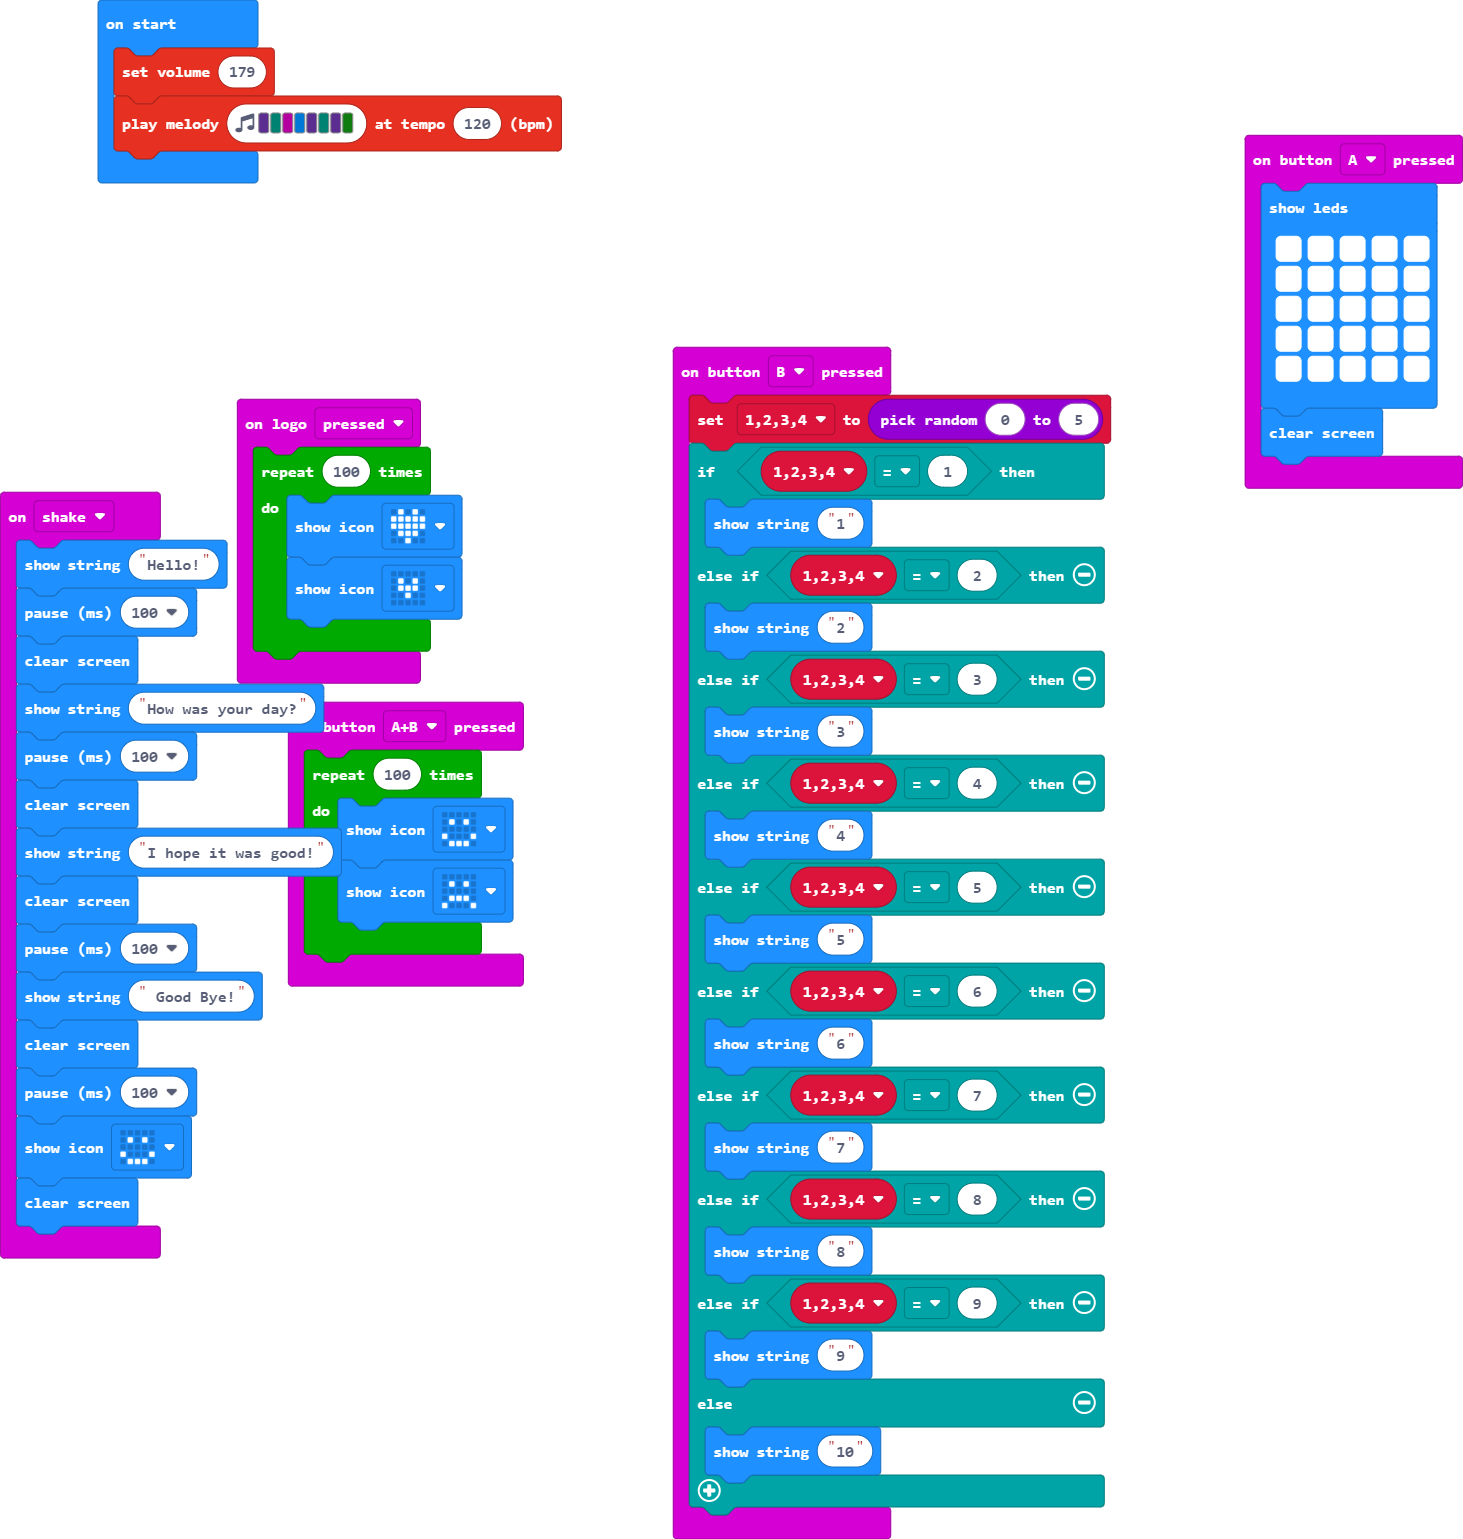
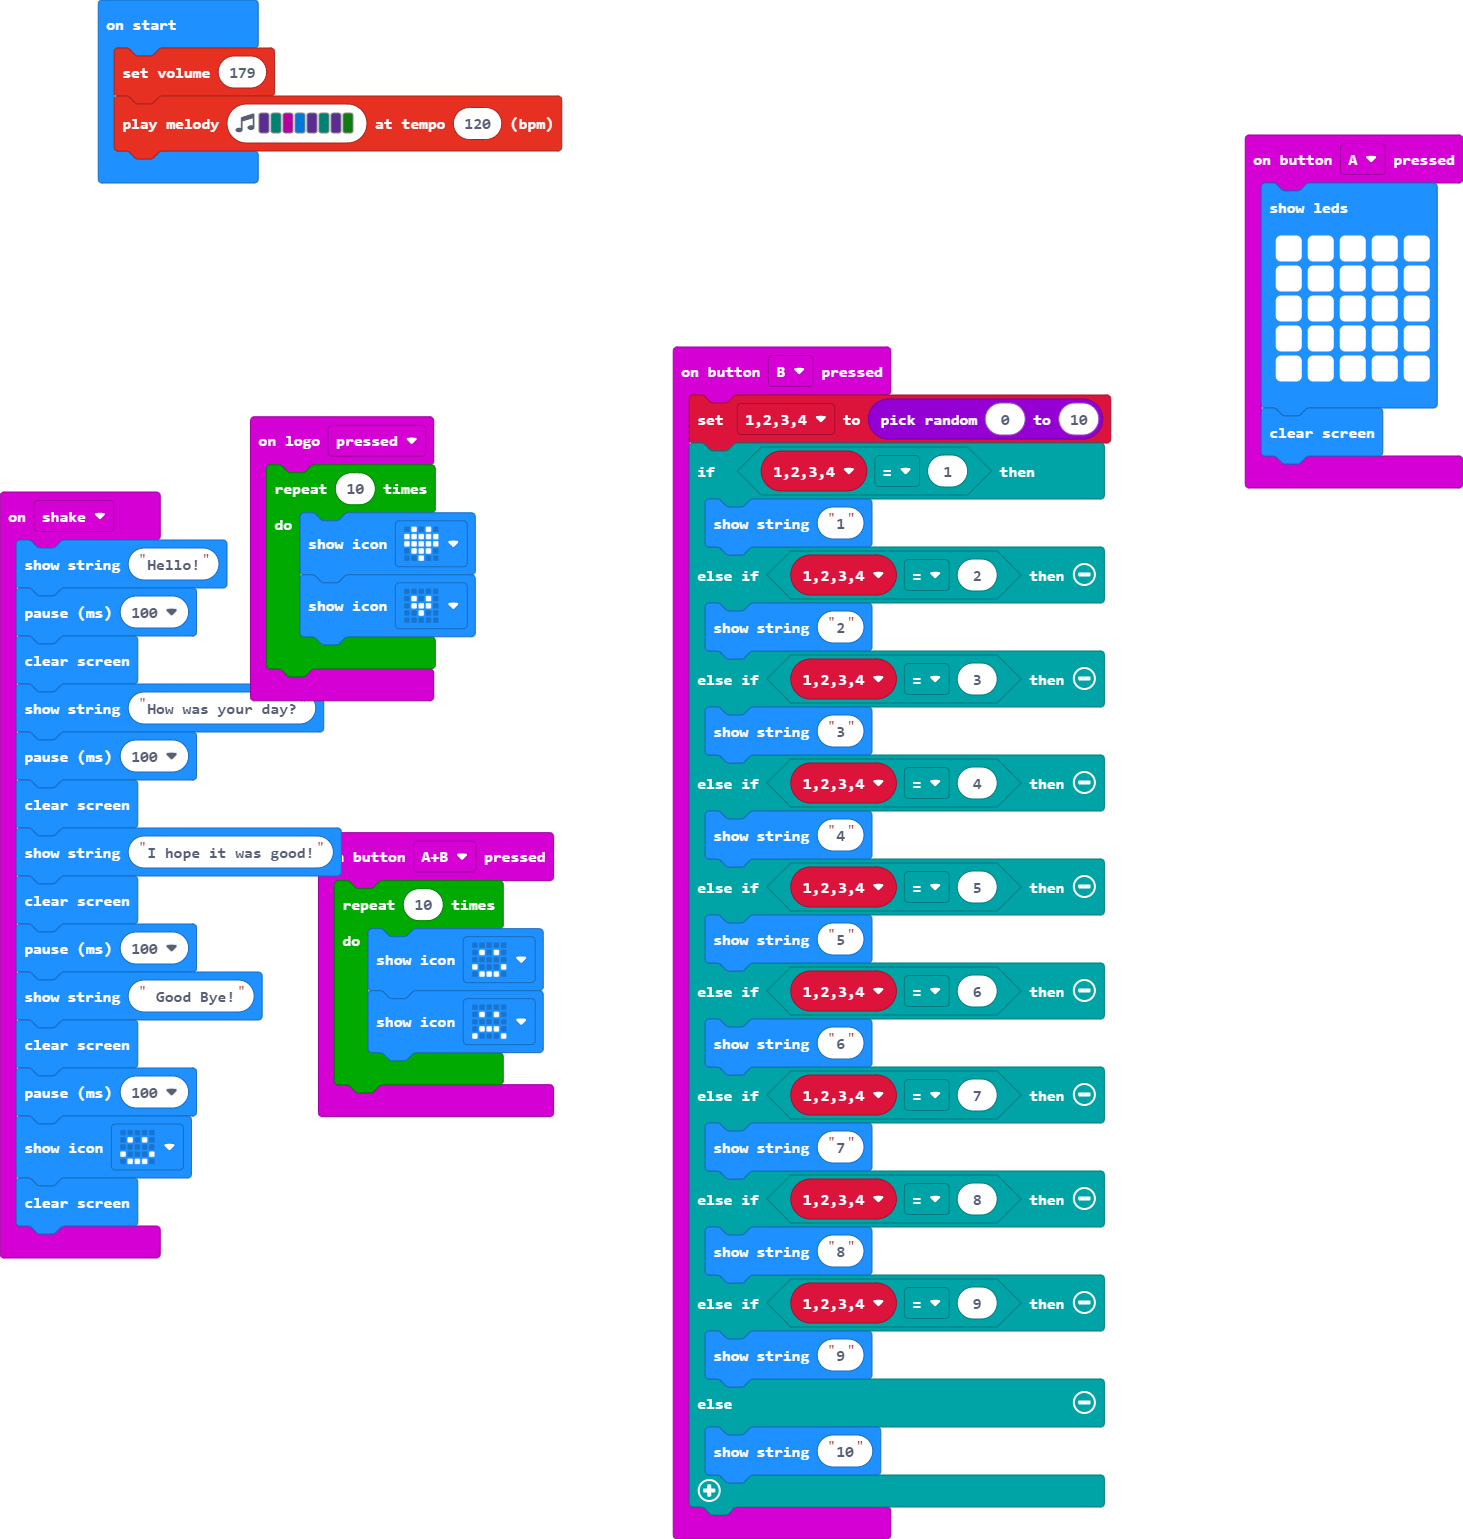
Update main.blocks, main.ts

Changed region(s): [[0.1538, 0.2495, 0.3999, 0.7485], [0.9535, 0.1871, 0.9843, 0.2495], [0.1846, 0.0624, 0.2461, 0.0936]]

diff --git a/main.ts b/main.ts
@@ -9,13 +9,13 @@ input.onButtonPressed(Button.A, function () {
     basic.clearScreen()
 })
 input.onButtonPressed(Button.AB, function () {
-    for (let index = 0; index < 100; index++) {
+    for (let index = 0; index < 10; index++) {
         basic.showIcon(IconNames.Happy)
         basic.showIcon(IconNames.Sad)
     }
 })
 input.onButtonPressed(Button.B, function () {
-    _1234 = randint(0, 5)
+    _1234 = randint(0, 10)
     if (_1234 == 1) {
         basic.showString("1")
     } else if (_1234 == 2) {
@@ -55,7 +55,7 @@ input.onGesture(Gesture.Shake, function () {
     basic.clearScreen()
 })
 input.onLogoEvent(TouchButtonEvent.Pressed, function () {
-    for (let index = 0; index < 100; index++) {
+    for (let index = 0; index < 10; index++) {
         basic.showIcon(IconNames.Heart)
         basic.showIcon(IconNames.SmallHeart)
     }
